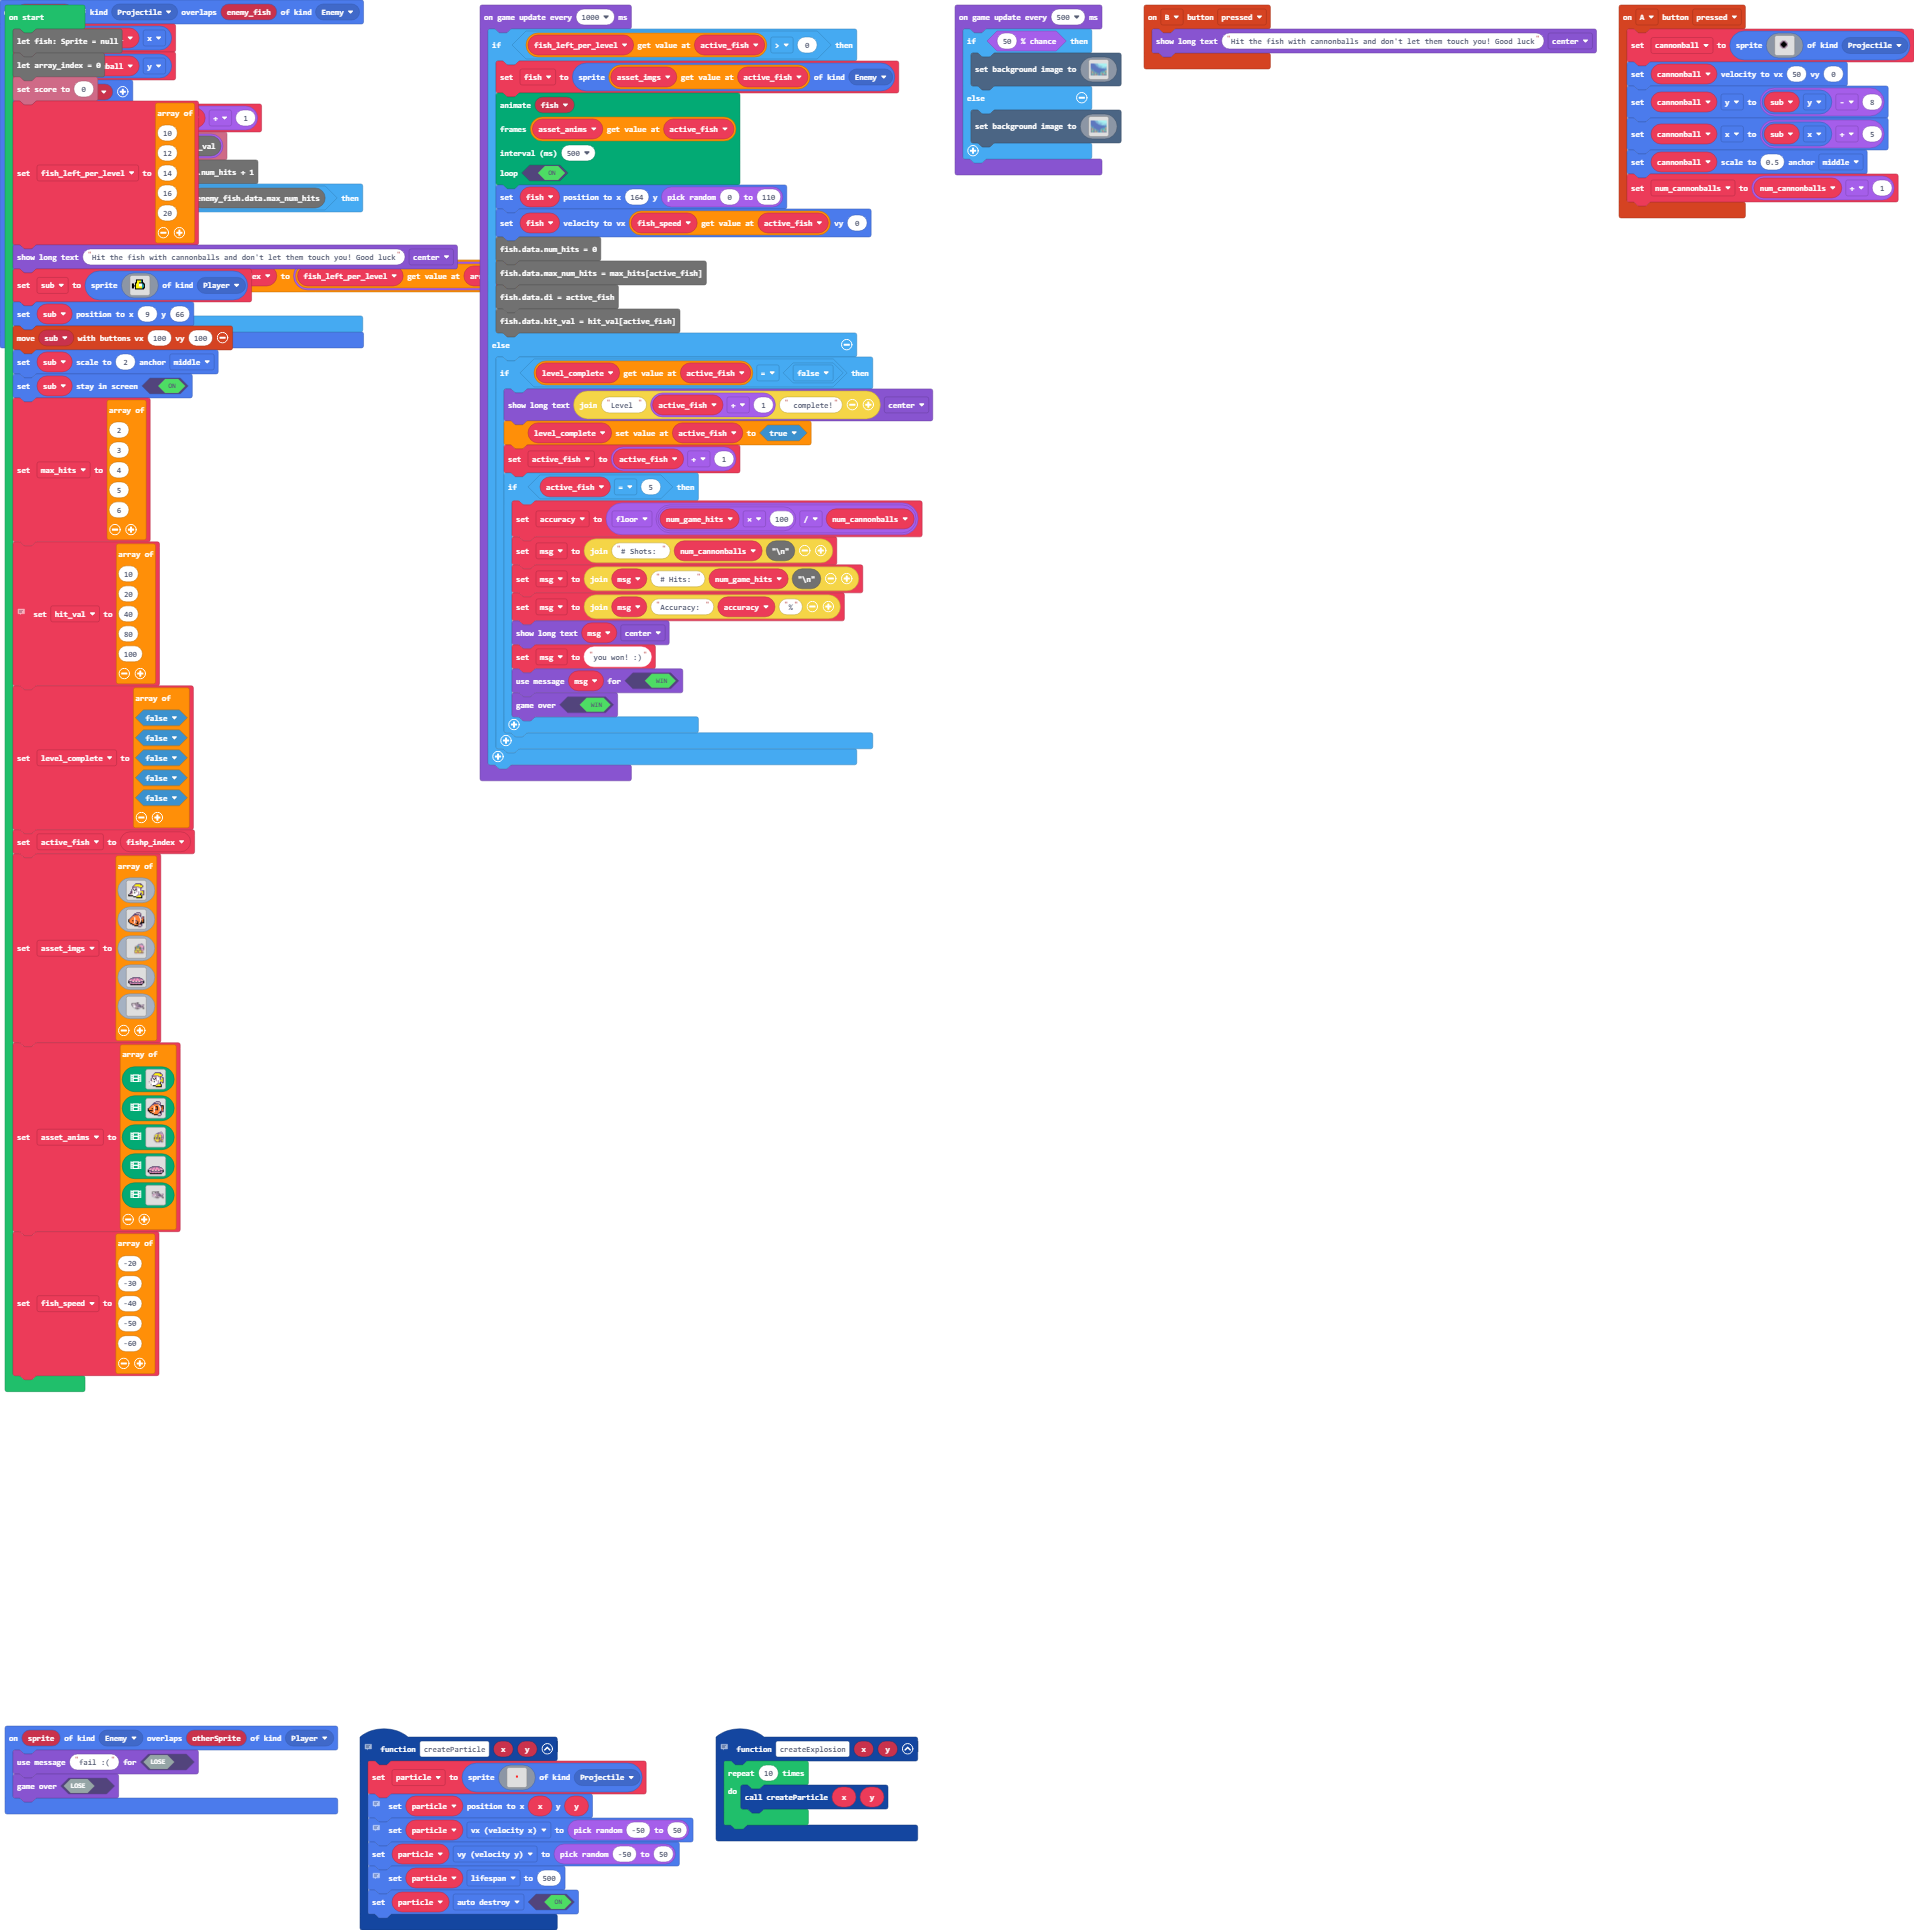
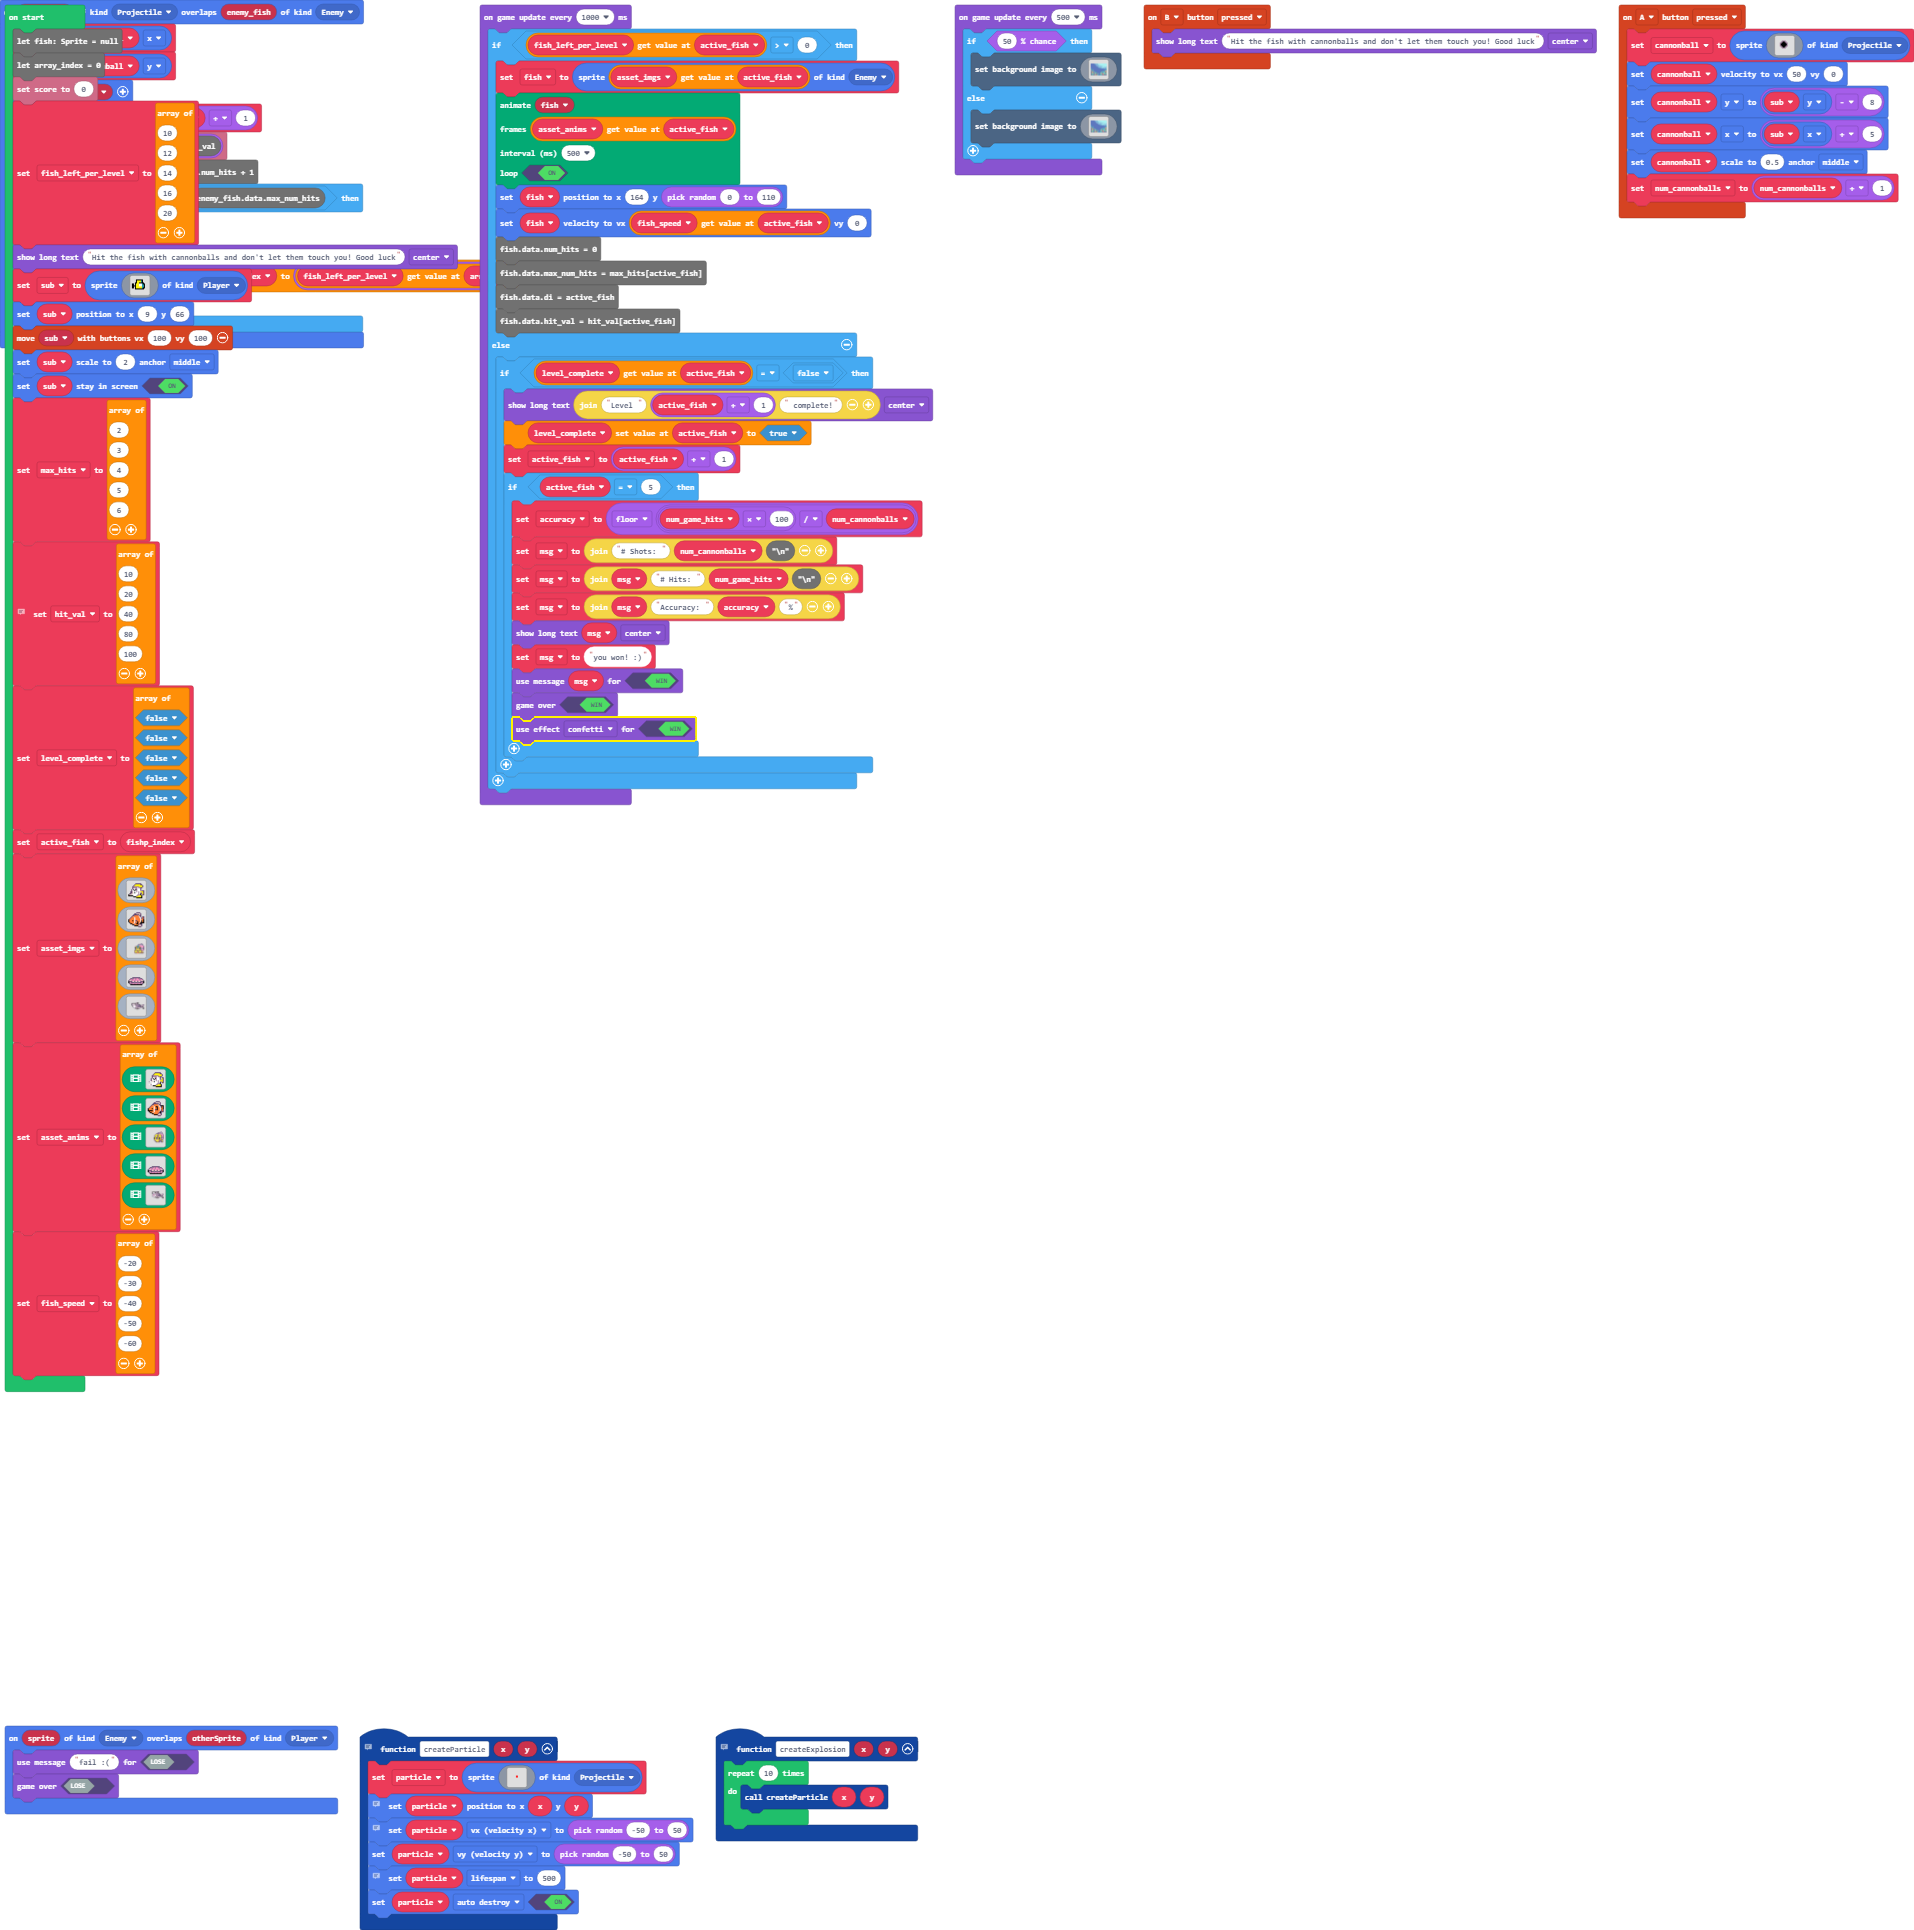
added confetti

Changed region(s): [[0.2466, 0.3731, 0.4624, 0.4352]]

diff --git a/main.ts b/main.ts
@@ -146,6 +146,7 @@ fish.data.hit_val = hit_val[active_fish]
                 msg = "you won! :)"
                 game.setGameOverMessage(true, msg)
                 game.gameOver(true)
+                game.setGameOverEffect(true, effects.confetti)
             }
         }
     }
